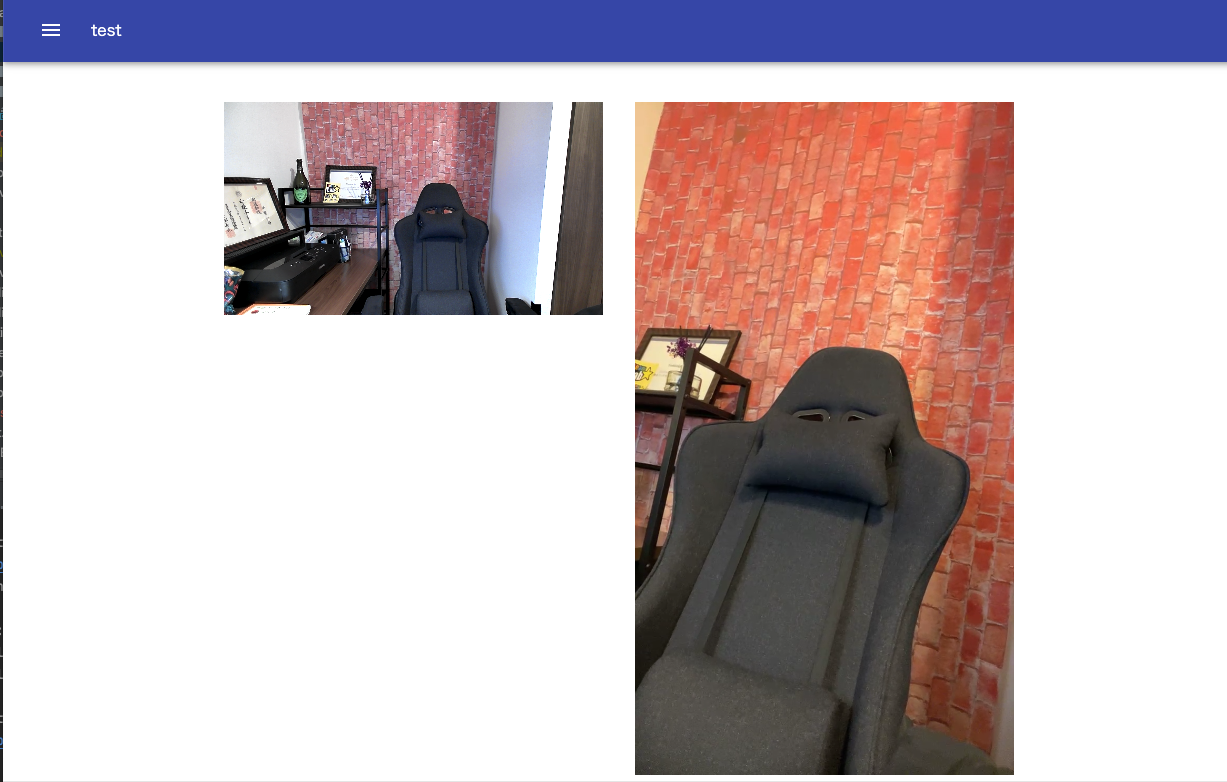
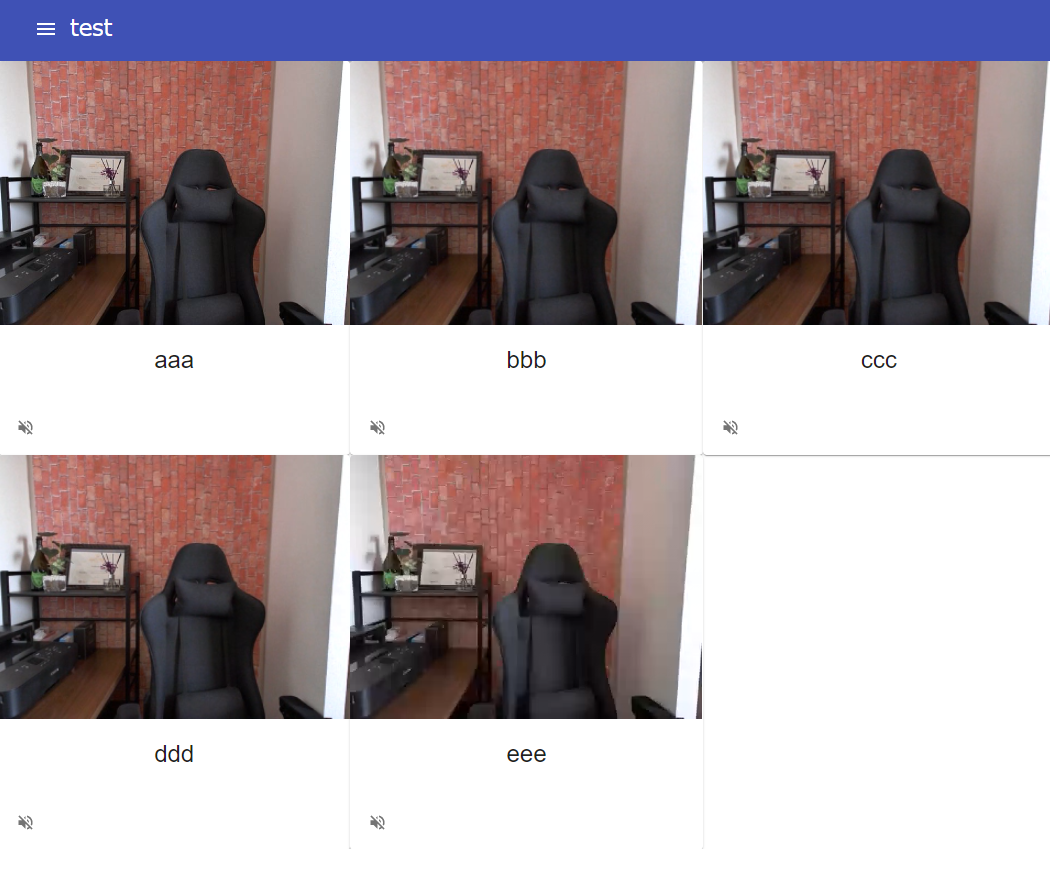
デモ画像を最新化

diff --git a/src/store/slice/client.ts b/src/store/slice/client.ts
@@ -4,9 +4,13 @@ import { RtcClient } from '@/store/StoreTypes'
 export const ClientSlice = createSlice({
   name: 'client',
   initialState: {
+    bool: false,
     rtcClient: null,
   },
   reducers: {
+    toggleState(state?, action?) {
+      state.bool = !state.bool
+    },
     fetchRtcClient(state?, action?) {
       state.rtcClient = action.payload
     },
@@ -14,9 +18,12 @@ export const ClientSlice = createSlice({
 })
 
 // Actions
-export const { fetchRtcClient } = ClientSlice.actions
+export const { toggleState, fetchRtcClient } = ClientSlice.actions
 
 // 外部からはこの関数を呼んでもらう
+export const forceRender = () => async (dispatch) => {
+  dispatch(toggleState())
+}
 export const setRtcClient = (rtcClient: Partial<RtcClient>) => async (
   dispatch
 ) => {

diff --git a/src/store/useRtcClient.ts b/src/store/useRtcClient.ts
@@ -1,14 +1,12 @@
 import { useEffect, useReducer } from 'react'
 import { useSelector, useDispatch } from 'react-redux'
 import RtcClient from '@/utilities/RtcClient'
-import { setRtcClient } from '@/store/slice/client'
-import { forceRender } from '@/store/slice/render'
+import { forceRender, setRtcClient } from '@/store/slice/client'
 
 const useRtcClient = () => {
   const dispatch = useDispatch()
   const { rtcClient } = useSelector((state: { client }) => state.client)
   // const [, forceRender] = useReducer((boolean) => !boolean, false)
-  const { render } = useSelector((state: { render }) => state.render)
 
   const _setRtcClient = async (rtcClient: RtcClient) => {
     await dispatch(setRtcClient(rtcClient))

diff --git a/src/components/pages/Video/Video.tsx b/src/components/pages/Video/Video.tsx
@@ -15,7 +15,7 @@ import {
 import RtcClient, { Member } from '@/utilities/RtcClient'
 import AudioAnalyser from './AudioAnalyser'
 import VolumeButton from './VolumeButton'
-import useDimensions from '@/hooks/useDimentions'
+import useDimensions from '@/store/useDimentions'
 
 type Props = {
   isLocal: boolean
@@ -52,7 +52,7 @@ const Video: VFC<Props> = ({ isLocal, member, rtcClient, videoRef }) => {
           id={`video-${member.clientId}`}
         />
         <CardContent>
-          <Typography gutterBottom variant="h5" component="h2">
+          <Typography gutterBottom variant="h5" component="h3">
             {member.name}
           </Typography>
         </CardContent>

diff --git a/src/components/Layout.tsx b/src/components/Layout.tsx
@@ -1,6 +1,6 @@
 import React, { FC, useEffect, useState } from 'react'
 import PropTypes from 'prop-types'
-import useRtcClient from '@/hooks/useRtcClient'
+import useRtcClient from '@/store/useRtcClient'
 import Header from '@/components/pages/Header'
 import Footer from '@/components/pages/Footer'
 import SideMenu from '@/components/pages/SideMenu'

diff --git a/src/store/Store.ts b/src/store/Store.ts
@@ -1,8 +1,6 @@
 import { combineReducers } from 'redux'
-import render from '@/store/slice/render'
 import client from '@/store/slice/client'
 
 export default combineReducers({
-  render,
   client,
 })

diff --git a/src/components/pages/Video/VolumeButton.tsx b/src/components/pages/Video/VolumeButton.tsx
@@ -10,8 +10,8 @@ import RtcClient from '@/utilities/RtcClient'
 
 const useStyles = makeStyles({
   icon: {
-    height: 38,
-    width: 38,
+    height: 19,
+    width: 19,
   },
 })
 

diff --git a/README.md b/README.md
@@ -81,7 +81,6 @@ videoRef.srcObject = mediaStream
 │   ├── @types/
 │   ├── common/
 │   ├── components/
-│   ├── hooks/
 │   ├── pages/
 │   ├── store/
 │   ├── styles/
